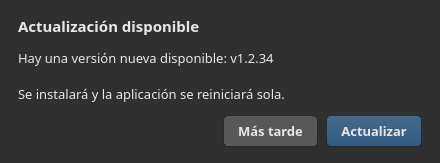
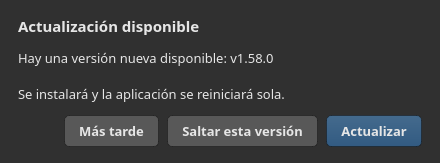
docs(readme): la captura del diálogo de actualización es la de verdad
capture_docs montaba el diálogo a mano y se quedó atrás: sin "Saltar esta
versión" y ofreciendo la v1.2.34. dialogs.update_dialog construye el
diálogo sin abrirlo, update_available lo usa y el script también, con la
minor siguiente al último tag.

Changed region(s): [[0.1477, 0.7055, 0.7091, 0.9202], [0.5614, 0.3067, 0.6205, 0.3988]]

diff --git a/src/ui/widgets/dialogs.py b/src/ui/widgets/dialogs.py
@@ -195,12 +195,13 @@ class ProgressDialog(AppDialog):
         self.body_label.setVisible(bool(text))
 
 
-def update_available(parent, tag: str, on_update, on_skip=None) -> bool:
-    """Diálogo de actualización disponible (de BlenderManager).
+def update_dialog(parent, tag: str, with_skip: bool = True) -> tuple:
+    """Monta (sin abrir) el diálogo de actualización: ``(dialog, choice)``.
 
-    ``on_update`` se llama si acepta; ``on_skip`` si elige no volver a avisar de
-    esa versión concreta. El aviso automático la silencia; "Buscar ahora" la
-    sigue mostrando. Devuelve True si se ha aceptado.
+    Va aparte de ``update_available`` para que ``packaging/capture_docs.py``
+    fotografíe **este** diálogo y no una copia a mano, que se quedó atrás (sin
+    "Omitir esta versión") en cuanto el de verdad cambió. ``choice["skip"]``
+    queda en True si el usuario pide no volver a ver esa versión.
     """
     # Lo mismo en las tres plataformas: en macOS también se instala sola (un
     # *helper* al estilo de Sparkle cambia el ``.app``, ``updater._apply_macos``).
@@ -213,7 +214,7 @@ def update_available(parent, tag: str, on_update, on_skip=None) -> bool:
     choice = {"skip": False}
     dialog.add_button(tr("Later"), on_click=dialog.reject,
                       tooltip=tr("Ask me again another time."))
-    if on_skip is not None:
+    if with_skip:
         dialog.add_button(
             tr("Skip this version"),
             on_click=lambda: (choice.update(skip=True), dialog.reject()),
@@ -222,6 +223,17 @@ def update_available(parent, tag: str, on_update, on_skip=None) -> bool:
     dialog.add_button(tr("Update"), variant="accent", on_click=dialog.accept,
                       tooltip=tr("Download and install it now.\n"
                                  "The app restarts by itself."))
+    return dialog, choice
+
+
+def update_available(parent, tag: str, on_update, on_skip=None) -> bool:
+    """Diálogo de actualización disponible (de BlenderManager).
+
+    ``on_update`` se llama si acepta; ``on_skip`` si elige no volver a avisar de
+    esa versión concreta. El aviso automático la silencia; "Buscar ahora" la
+    sigue mostrando. Devuelve True si se ha aceptado.
+    """
+    dialog, choice = update_dialog(parent, tag, with_skip=on_skip is not None)
     accepted = dialog.exec() == QDialog.Accepted
     if accepted:
         on_update()

diff --git a/packaging/capture_docs.py b/packaging/capture_docs.py
@@ -54,6 +54,24 @@ def _prepare_folder_library(window) -> None:
     window._rebuild_folder_rows()
 
 
+def _next_release_tag() -> str:
+    """La versión que ofrecería el aviso: la minor siguiente al último tag.
+
+    ``src/version.py`` vale "0.0.0" en el repositorio (el CI la cuece al
+    compilar), así que se mira el último tag de git; sin git, uno fijo.
+    """
+    import subprocess
+
+    try:
+        last = subprocess.run(
+            ["git", "describe", "--tags", "--abbrev=0"], capture_output=True,
+            text=True, check=True, cwd=SRC.parent).stdout.strip()
+        major, minor = last.lstrip("v").split(".")[:2]
+        return f"v{major}.{int(minor) + 1}.0"
+    except (OSError, subprocess.CalledProcessError, ValueError):
+        return "v2.0.0"
+
+
 def main() -> None:
     from PySide6.QtCore import QTimer
     from PySide6.QtWidgets import QApplication
@@ -62,8 +80,7 @@ def main() -> None:
     from services import settings as settings_service
     from ui import fonts, qss
     from ui.widgets import MainWindow
-    from ui.widgets.dialogs import AppDialog
-    from i18n import tr
+    from ui.widgets.dialogs import update_dialog
 
     # Los ajustes van a un directorio temporal, y ojo con esto: el script fija
     # el zoom en memoria para que las capturas salgan siempre iguales, y sin
@@ -146,14 +163,9 @@ def main() -> None:
             QTimer.singleShot(300, capture_update)
 
         def capture_update():
-            dialog = AppDialog(
-                window, tr("Update available"),
-                tr("A new version is available: {version}", version="v1.2.34")
-                + "\n\n"
-                + tr("It will be installed and the app will restart automatically."))
-            dialog.add_button(tr("Later"), on_click=dialog.reject)
-            dialog.add_button(tr("Update"), variant="accent",
-                              on_click=dialog.reject)
+            # El diálogo de verdad (``dialogs.update_dialog``), sin abrirlo con
+            # ``exec``: una copia a mano se quedaba atrás cuando cambiaba.
+            dialog, _ = update_dialog(window, _next_release_tag())
             dialog.show()
 
             def save_dialog():
